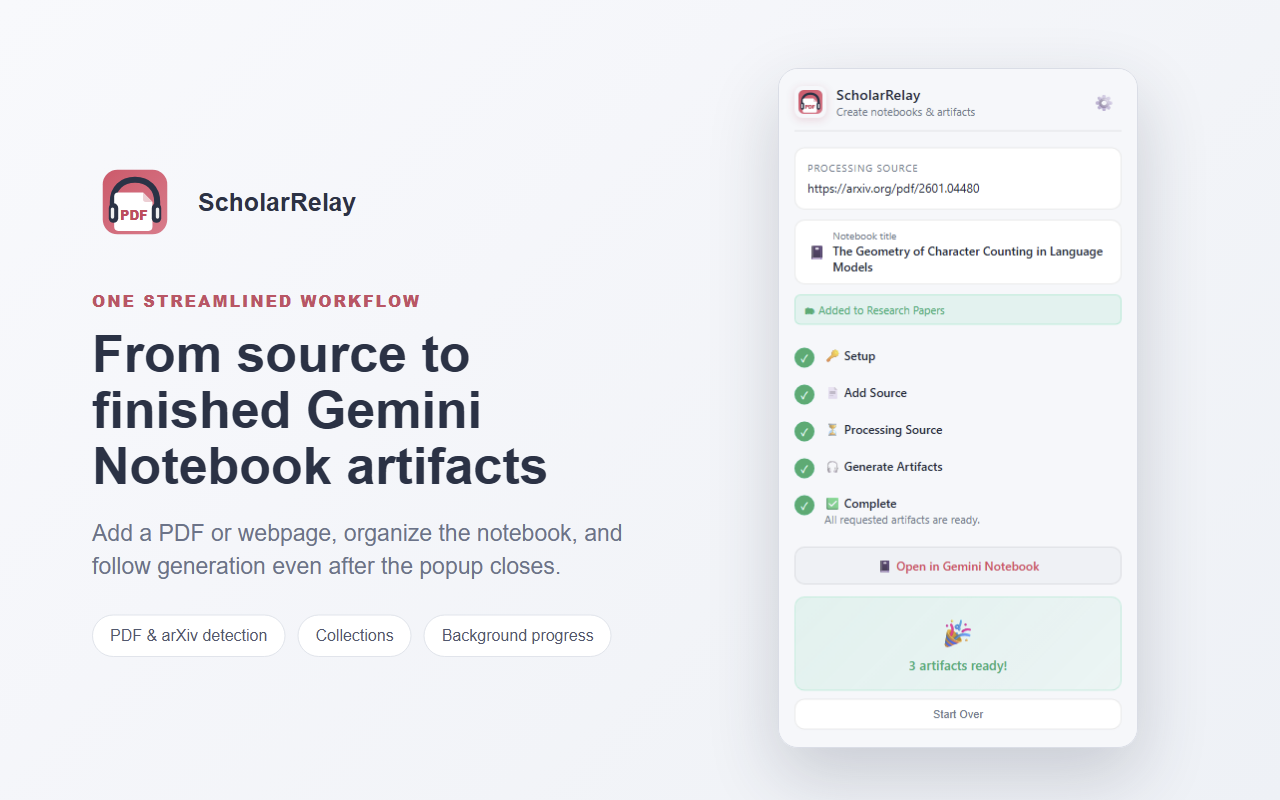
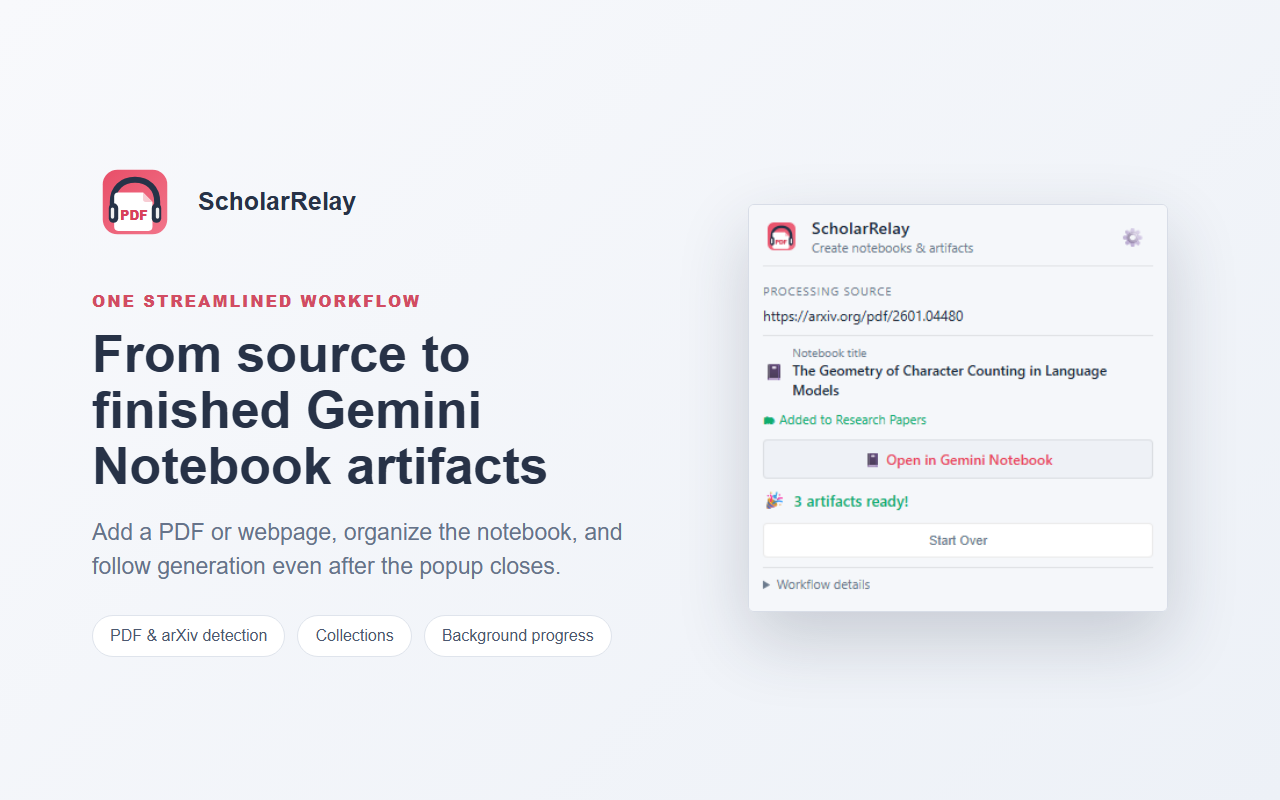
Compact the popup and keep completed results visible (#11)

diff --git a/popup.html b/popup.html
@@ -18,7 +18,7 @@
       --warning: #e8a200;
       --error: #e03e3e;
       --border: rgba(0, 0, 0, 0.08);
-      --radius: 10px;
+      --radius: 4px;
     }
 
     * {
@@ -32,7 +32,7 @@
       font-family: 'Segoe UI', system-ui, -apple-system, sans-serif;
       background: var(--bg);
       color: var(--text);
-      padding: 16px;
+      padding: 10px 12px;
     }
 
     /* ---- Header ---- */
@@ -40,8 +40,8 @@
       display: flex;
       align-items: center;
       gap: 10px;
-      margin-bottom: 16px;
-      padding-bottom: 12px;
+      margin-bottom: 8px;
+      padding-bottom: 8px;
       border-bottom: 1px solid var(--border);
     }
 
@@ -49,7 +49,7 @@
       width: 32px;
       height: 32px;
       border-radius: 8px;
-      box-shadow: 0 2px 8px var(--accent-glow);
+      box-shadow: none;
       flex-shrink: 0;
     }
 
@@ -87,11 +87,9 @@
 
     /* ---- PDF info ---- */
     .pdf-info {
-      background: var(--surface);
-      border-radius: var(--radius);
-      padding: 12px;
-      margin-bottom: 14px;
-      border: 1px solid var(--border);
+      padding: 6px 0 8px;
+      margin-bottom: 3px;
+      border-bottom: 1px solid var(--border);
     }
 
     .pdf-info .label {
@@ -132,11 +130,8 @@
 
     /* ---- Notebook title bar ---- */
     .notebook-title-bar {
-      background: var(--surface);
-      border-radius: var(--radius);
-      padding: 8px 12px;
-      margin-bottom: 10px;
-      border: 1px solid var(--border);
+      padding: 4px 0;
+      margin-bottom: 4px;
       display: flex;
       align-items: center;
       gap: 6px;
@@ -163,8 +158,8 @@
     /* ---- Buttons ---- */
     .btn-generate {
       width: 100%;
-      padding: 12px;
-      background: linear-gradient(135deg, var(--accent), #ff6b8a);
+      padding: 9px 10px;
+      background: var(--accent);
       border: none;
       border-radius: var(--radius);
       color: white;
@@ -172,13 +167,13 @@
       font-weight: 600;
       cursor: pointer;
       transition: all 0.2s;
-      box-shadow: 0 3px 12px var(--accent-glow);
+      box-shadow: none;
       letter-spacing: 0.3px;
     }
 
     .btn-generate:hover {
       transform: translateY(-1px);
-      box-shadow: 0 4px 16px var(--accent-glow);
+      box-shadow: none;
     }
 
     .btn-generate:active {
@@ -211,14 +206,14 @@
 
     /* ---- Pipeline ---- */
     .pipeline {
-      margin-top: 14px;
+      margin-top: 6px;
     }
 
     .pipeline-step {
       display: flex;
       align-items: flex-start;
-      gap: 10px;
-      padding: 8px 0;
+      gap: 8px;
+      padding: 4px 0;
       font-size: 12px;
     }
 
@@ -290,14 +285,14 @@
     .notebook-link {
       display: block;
       text-align: center;
-      padding: 10px;
+      padding: 8px;
       background: var(--surface-alt);
       border-radius: var(--radius);
       color: var(--accent);
       text-decoration: none;
       font-size: 12px;
       font-weight: 500;
-      margin-top: 12px;
+      margin-top: 6px;
       border: 1px solid var(--border);
       transition: all 0.2s;
     }
@@ -308,18 +303,17 @@
     }
 
     .completed-box {
-      text-align: center;
-      padding: 16px;
-      background: linear-gradient(135deg, rgba(0, 214, 143, 0.1), rgba(0, 214, 143, 0.05));
-      border-radius: var(--radius);
-      border: 1px solid rgba(0, 214, 143, 0.2);
-      margin-top: 12px;
+      display: flex;
+      align-items: center;
+      gap: 6px;
+      padding: 8px 0 2px;
+      color: var(--success);
     }
 
-    .completed-box .icon {
-      font-size: 28px;
-      margin-bottom: 6px;
-    }
+    .completed-box .icon { font-size: 15px; }
+
+    .workflow-details { margin-top: 8px; border-top: 1px solid var(--border); padding-top: 6px; }
+    .workflow-details summary { cursor: pointer; font-size: 11px; color: var(--text-dim); }
 
     .completed-box .msg {
       font-size: 13px;
@@ -340,17 +334,17 @@
     }
 
     .collection-status {
-      margin: 8px 0;
-      padding: 7px 9px;
-      border-radius: 6px;
+      margin: 3px 0;
+      padding: 3px 0;
+      border-radius: 0;
       font-size: 11px;
       line-height: 1.35;
     }
 
     .collection-status.success {
       color: var(--success);
-      background: rgba(0, 214, 143, 0.1);
-      border: 1px solid rgba(0, 214, 143, 0.25);
+      background: transparent;
+      border: 0;
     }
 
     .collection-status.warning {
@@ -375,10 +369,14 @@
       display: block;
     }
 
+    #settings-panel.open ~ #content {
+      display: none;
+    }
+
     .settings-header {
       display: flex;
       align-items: center;
-      padding: 10px 14px;
+      padding: 8px 10px;
       border-bottom: 1px solid var(--border);
       background: var(--surface-alt);
     }
@@ -404,7 +402,7 @@
 
     .settings-inner {
       padding: 0;
-      max-height: 420px;
+      max-height: 320px;
       overflow-y: auto;
     }
 
@@ -420,7 +418,7 @@
     .settings-group {
       width: 100%;
       margin: 0;
-      padding: 10px 14px;
+      padding: 8px 10px;
       border: 0;
       border-bottom: 1px solid var(--border);
       border-radius: 0;
@@ -432,7 +430,7 @@
     }
 
     .settings-group-title {
-      margin-bottom: 9px;
+      margin-bottom: 6px;
       font-size: 11px;
       font-weight: 700;
       text-transform: uppercase;
@@ -452,7 +450,7 @@
     }
 
     .settings-footer {
-      padding: 10px 14px;
+      padding: 8px 10px;
       border-top: 1px solid var(--border);
       background: var(--surface-alt);
     }
@@ -491,7 +489,7 @@
     .s-section-header {
       display: flex;
       align-items: center;
-      padding: 9px 0;
+      padding: 6px 0;
       cursor: pointer;
       user-select: none;
       gap: 6px;

diff --git a/docs/store-assets/source/workflow.html b/docs/store-assets/source/workflow.html
@@ -1,5 +1,5 @@
 <!doctype html>
 <html><head><meta charset="utf-8"><style>
 *{box-sizing:border-box}html,body{margin:0;width:1280px;height:800px;overflow:hidden;font-family:Arial,sans-serif;color:#273247}body{background:linear-gradient(135deg,#f8f9fc 0%,#edf1f7 100%)}
-.layout{height:100%;display:grid;grid-template-columns:1fr 460px;gap:70px;align-items:center;padding:48px 92px}.brand{display:flex;align-items:center;gap:20px;margin-bottom:44px}.brand img{width:86px;height:86px}.brand span{font-size:25px;font-weight:700}.kicker{color:#d24c63;font-weight:800;letter-spacing:.12em;text-transform:uppercase;font-size:16px}.copy h1{font-size:52px;line-height:1.08;margin:14px 0 22px;max-width:600px}.copy p{font-size:23px;line-height:1.45;color:#66738b;max-width:600px;margin:0 0 32px}.tags{display:flex;flex-wrap:wrap;gap:12px}.tag{background:#fff;border:1px solid #dfe4ec;border-radius:999px;padding:11px 17px;font-size:16px;color:#4c5870}.shot{height:720px;display:flex;align-items:center;justify-content:center}.shot img{height:680px;width:360px;object-fit:cover;border-radius:20px;box-shadow:0 28px 70px rgba(39,50,71,.20);border:1px solid #d8dde7}
+.layout{height:100%;display:grid;grid-template-columns:1fr 460px;gap:70px;align-items:center;padding:48px 92px}.brand{display:flex;align-items:center;gap:20px;margin-bottom:44px}.brand img{width:86px;height:86px}.brand span{font-size:25px;font-weight:700}.kicker{color:#d24c63;font-weight:800;letter-spacing:.12em;text-transform:uppercase;font-size:16px}.copy h1{font-size:52px;line-height:1.08;margin:14px 0 22px;max-width:600px}.copy p{font-size:23px;line-height:1.45;color:#66738b;max-width:600px;margin:0 0 32px}.tags{display:flex;flex-wrap:wrap;gap:12px}.tag{background:#fff;border:1px solid #dfe4ec;border-radius:999px;padding:11px 17px;font-size:16px;color:#4c5870}.shot{height:720px;display:flex;align-items:center;justify-content:center}.shot img{height:auto;width:420px;object-fit:contain;border-radius:6px;box-shadow:0 28px 70px rgba(39,50,71,.20);border:1px solid #d8dde7}
 </style></head><body><main class="layout"><section class="copy"><div class="brand"><img src="../../../icons/icon.svg" alt=""><span>ScholarRelay</span></div><div class="kicker">One streamlined workflow</div><h1>From source to finished Gemini Notebook artifacts</h1><p>Add a PDF or webpage, organize the notebook, and follow generation even after the popup closes.</p><div class="tags"><span class="tag">PDF &amp; arXiv detection</span><span class="tag">Collections</span><span class="tag">Background progress</span></div></section><section class="shot"><img src="../../screenshots/workflow.png" alt="Completed ScholarRelay workflow"></section></main></body></html>

diff --git a/popup.js b/popup.js
@@ -502,14 +502,15 @@ function renderProgress(state) {
     }
 
     contentEl.innerHTML = `
-    <div class="pdf-info" style="margin-bottom:10px;">
+    <div class="pdf-info">
       <div class="label">Processing Source</div>
       <div class="pdf-url">${escapeHtml((state.pdfUrl || '').substring(0, 80))}</div>
     </div>
     ${titleHtml}
     ${collectionHtml}
-    <div class="pipeline">${stepsHtml}</div>
-    ${bottomHtml}`;
+    ${state.status === 'completed'
+        ? `${bottomHtml}<details class="workflow-details"><summary>Workflow details</summary><div class="pipeline">${stepsHtml}</div></details>`
+        : `<div class="pipeline">${stepsHtml}</div>${bottomHtml}`}`;
 
     document.getElementById('btn-reset')?.addEventListener('click', async () => {
         try {
